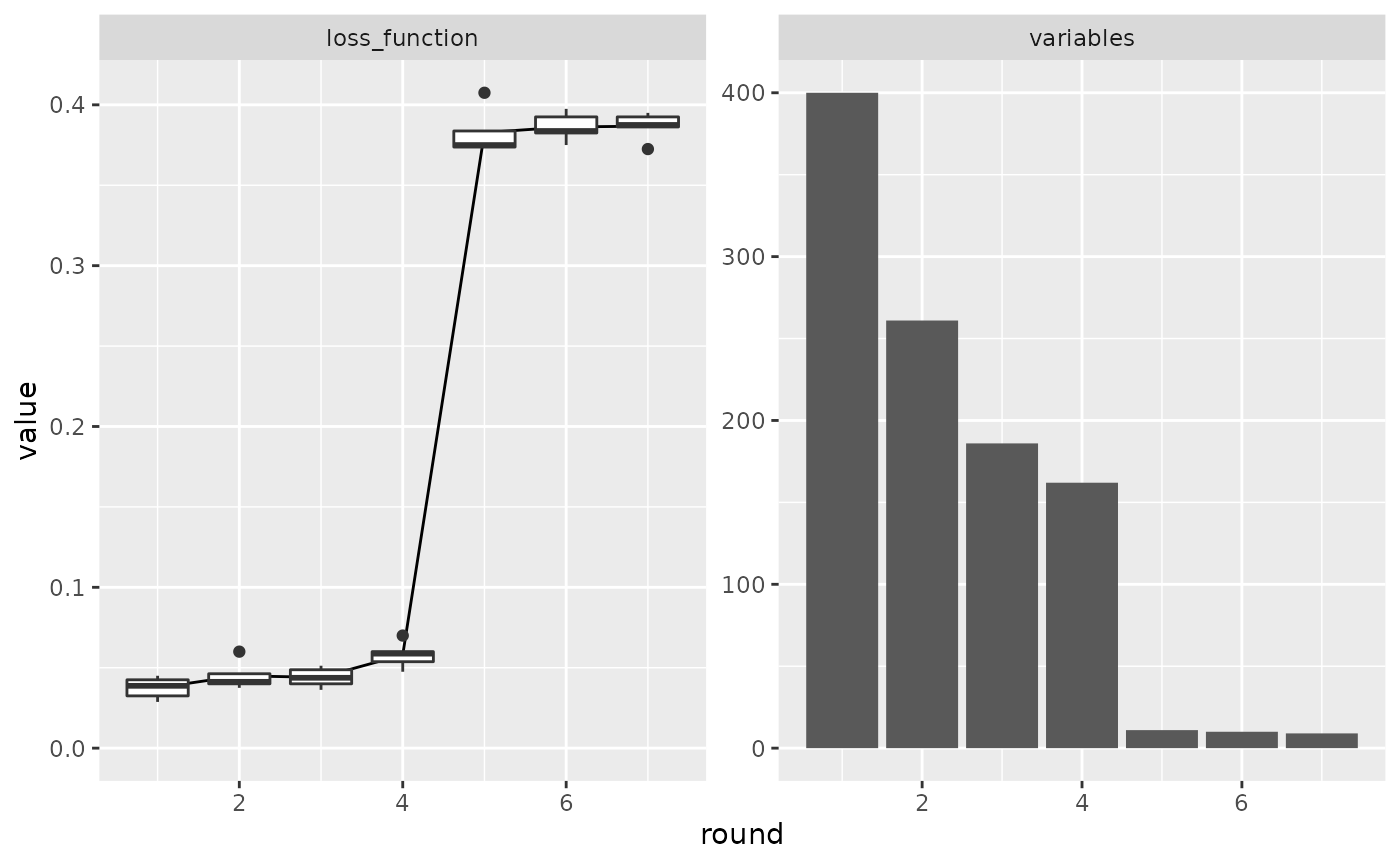
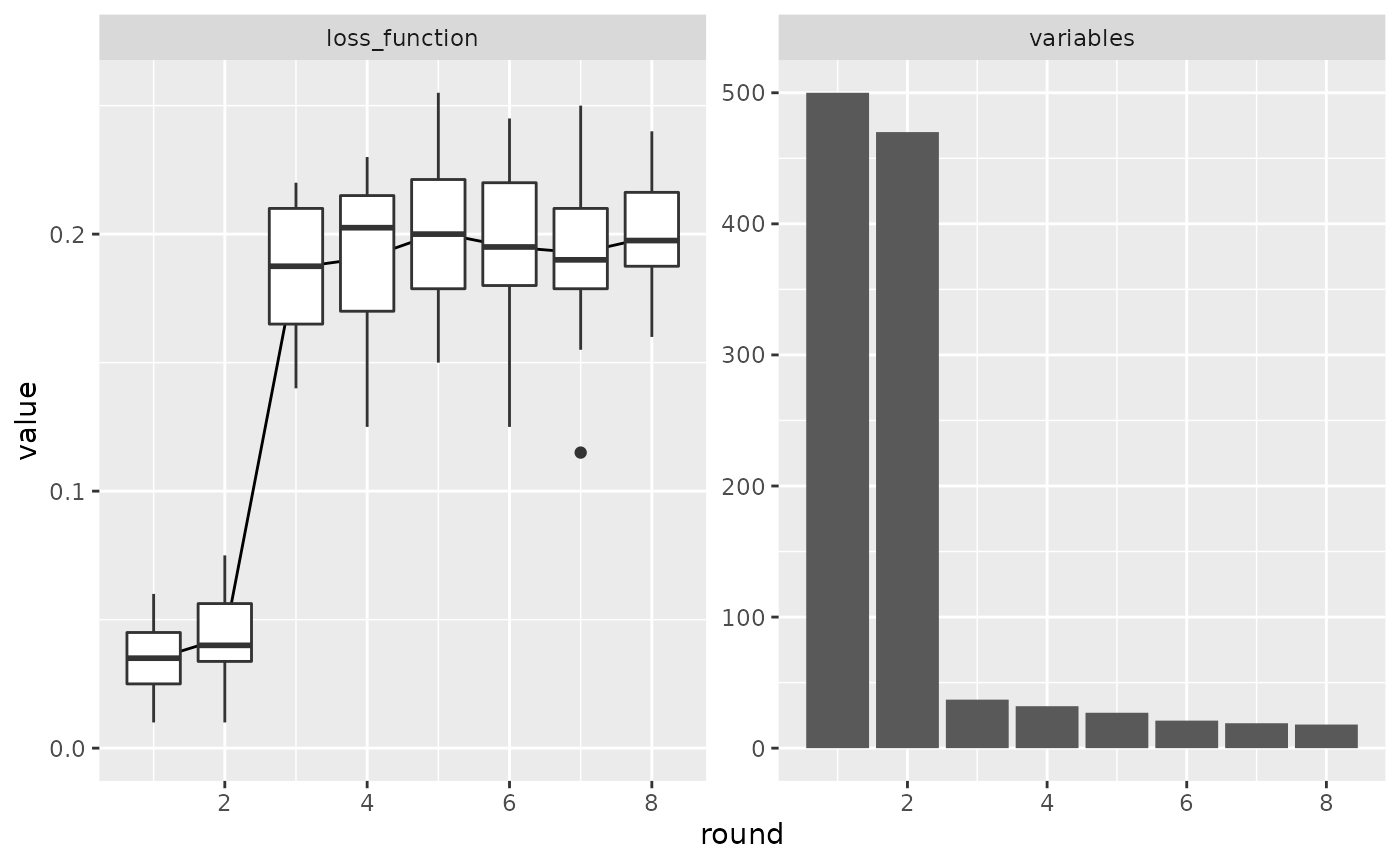
Built site for celavi: 0.0.0.9000@1dbce61

diff --git a/articles/Feature-selection-on-MNIST-data.html b/articles/Feature-selection-on-MNIST-data.html
@@ -99,12 +99,12 @@
 
 <span class="kw">if</span><span class="op">(</span><span class="va">use_small_data</span><span class="op">)</span><span class="op">{</span>
   
-  <span class="va">data</span> <span class="op">&lt;-</span> <span class="fu">dplyr</span><span class="fu">::</span><span class="fu"><a href="https://dplyr.tidyverse.org/reference/sample_n.html" class="external-link">sample_n</a></span><span class="op">(</span><span class="va">data</span>, <span class="fl">40000</span><span class="op">)</span>
-  <span class="va">data</span> <span class="op">&lt;-</span> <span class="fu">dplyr</span><span class="fu">::</span><span class="fu"><a href="https://dplyr.tidyverse.org/reference/select.html" class="external-link">select</a></span><span class="op">(</span><span class="va">data</span>, <span class="fu"><a href="https://rdrr.io/r/base/c.html" class="external-link">c</a></span><span class="op">(</span><span class="fl">1</span>, <span class="fu"><a href="https://rdrr.io/r/base/sample.html" class="external-link">sample</a></span><span class="op">(</span><span class="fl">2</span><span class="op">:</span><span class="fl">785</span>, <span class="fl">400</span><span class="op">)</span><span class="op">)</span><span class="op">)</span>  
+  <span class="va">data</span> <span class="op">&lt;-</span> <span class="fu">dplyr</span><span class="fu">::</span><span class="fu"><a href="https://dplyr.tidyverse.org/reference/sample_n.html" class="external-link">sample_n</a></span><span class="op">(</span><span class="va">data</span>, <span class="fl">50000</span><span class="op">)</span>
+  <span class="va">data</span> <span class="op">&lt;-</span> <span class="fu">dplyr</span><span class="fu">::</span><span class="fu"><a href="https://dplyr.tidyverse.org/reference/select.html" class="external-link">select</a></span><span class="op">(</span><span class="va">data</span>, <span class="fu"><a href="https://rdrr.io/r/base/c.html" class="external-link">c</a></span><span class="op">(</span><span class="fl">1</span>, <span class="fu"><a href="https://rdrr.io/r/base/sample.html" class="external-link">sample</a></span><span class="op">(</span><span class="fl">2</span><span class="op">:</span><span class="fl">785</span>, <span class="fl">500</span><span class="op">)</span><span class="op">)</span><span class="op">)</span>  
   <span class="va">test</span> <span class="op">&lt;-</span> <span class="fu">dplyr</span><span class="fu">::</span><span class="fu"><a href="https://dplyr.tidyverse.org/reference/sample_n.html" class="external-link">sample_n</a></span><span class="op">(</span><span class="va">test</span>, <span class="fl">4000</span><span class="op">)</span>
   
-  <span class="va">iter</span>  <span class="op">&lt;-</span> <span class="fl">5</span>
-  <span class="va">frac</span> <span class="op">&lt;-</span> <span class="fl">.20</span>
+  <span class="va">iter</span> <span class="op">&lt;-</span> <span class="fl">20</span>
+  <span class="va">frac</span> <span class="op">&lt;-</span> <span class="fl">1</span><span class="op">/</span><span class="fl">20</span>
   
 <span class="op">}</span> </code></pre></div>
 <div class="sourceCode" id="cb2"><pre class="downlit sourceCode r">
@@ -113,7 +113,8 @@
   data <span class="op">=</span> <span class="va">data</span>,
   test <span class="op">=</span> <span class="va">test</span>,
   response <span class="op">=</span> <span class="st">"label"</span>,
-  stat <span class="op">=</span> <span class="va">median</span>,
+  <span class="co"># stat = function(x) quantile(x, .25),</span>
+  <span class="co"># stat = function(x) quantile(x, .75),</span>
   iterations <span class="op">=</span> <span class="va">iter</span>,
   sample_frac <span class="op">=</span> <span class="va">frac</span>,
   predict_function <span class="op">=</span> <span class="kw">function</span><span class="op">(</span><span class="va">object</span>, <span class="va">newdata</span><span class="op">)</span><span class="op">{</span><span class="fu">ranger</span><span class="fu">:::</span><span class="fu"><a href="https://rdrr.io/pkg/ranger/man/predict.ranger.html" class="external-link">predict.ranger</a></span><span class="op">(</span><span class="va">object</span>, data <span class="op">=</span> <span class="va">newdata</span><span class="op">)</span><span class="op">$</span><span class="va">predictions</span><span class="op">}</span>,
@@ -121,59 +122,63 @@
   max.depth <span class="op">=</span> <span class="fl">15</span>
 <span class="op">)</span>
 <span class="co">#&gt; <span style="color: #00BBBB;">ℹ</span> Using 1 - accuracy as loss function.</span>
-<span class="co">#&gt; <span style="color: #00BBBB;">ℹ</span> Fitting 1st model using 400 predictor variables.</span>
-<span class="co">#&gt; Growing trees.. Progress: 38%. Estimated remaining time: 49 seconds.</span>
-<span class="co">#&gt; Growing trees.. Progress: 77%. Estimated remaining time: 18 seconds.</span>
+<span class="co">#&gt; <span style="color: #00BBBB;">ℹ</span> Fitting 1st model using 500 predictor variables.</span>
+<span class="co">#&gt; Growing trees.. Progress: 37%. Estimated remaining time: 51 seconds.</span>
+<span class="co">#&gt; Growing trees.. Progress: 75%. Estimated remaining time: 21 seconds.</span>
 <span class="co">#&gt; </span>
 <span class="co">#&gt; ── <span style="font-weight: bold;">Round #1</span> ──</span>
 <span class="co">#&gt; </span>
 <span class="co">#&gt; <span style="color: #00BBBB;">ℹ</span> Using `dplyr::sample_frac` as sampler.</span>
-<span class="co">#&gt; <span style="color: #00BBBB;">ℹ</span> Removing 139 variables. Fitting new model with 261 variables.</span>
-<span class="co">#&gt; Growing trees.. Progress: 47%. Estimated remaining time: 35 seconds.</span>
-<span class="co">#&gt; Growing trees.. Progress: 93%. Estimated remaining time: 4 seconds.</span>
+<span class="co">#&gt; <span style="color: #00BBBB;">ℹ</span> Removing 30 variables. Fitting new model with 470 variables.</span>
+<span class="co">#&gt; Growing trees.. Progress: 39%. Estimated remaining time: 47 seconds.</span>
+<span class="co">#&gt; Growing trees.. Progress: 79%. Estimated remaining time: 16 seconds.</span>
 <span class="co">#&gt; </span>
 <span class="co">#&gt; ── <span style="font-weight: bold;">Round #2</span> ──</span>
 <span class="co">#&gt; </span>
 <span class="co">#&gt; <span style="color: #00BBBB;">ℹ</span> Using `dplyr::sample_frac` as sampler.</span>
-<span class="co">#&gt; <span style="color: #00BBBB;">ℹ</span> Removing 75 variables. Fitting new model with 186 variables.</span>
-<span class="co">#&gt; Growing trees.. Progress: 54%. Estimated remaining time: 26 seconds.</span>
+<span class="co">#&gt; <span style="color: #00BBBB;">ℹ</span> Removing 433 variables. Fitting new model with 37 variables.</span>
 <span class="co">#&gt; </span>
 <span class="co">#&gt; ── <span style="font-weight: bold;">Round #3</span> ──</span>
 <span class="co">#&gt; </span>
 <span class="co">#&gt; <span style="color: #00BBBB;">ℹ</span> Using `dplyr::sample_frac` as sampler.</span>
-<span class="co">#&gt; <span style="color: #00BBBB;">ℹ</span> Removing 24 variables. Fitting new model with 162 variables.</span>
-<span class="co">#&gt; Growing trees.. Progress: 58%. Estimated remaining time: 22 seconds.</span>
+<span class="co">#&gt; <span style="color: #00BBBB;">ℹ</span> Removing 5 variables. Fitting new model with 32 variables.</span>
 <span class="co">#&gt; </span>
 <span class="co">#&gt; ── <span style="font-weight: bold;">Round #4</span> ──</span>
 <span class="co">#&gt; </span>
 <span class="co">#&gt; <span style="color: #00BBBB;">ℹ</span> Using `dplyr::sample_frac` as sampler.</span>
-<span class="co">#&gt; <span style="color: #00BBBB;">ℹ</span> Removing 151 variables. Fitting new model with 11 variables.</span>
+<span class="co">#&gt; <span style="color: #00BBBB;">ℹ</span> Removing 5 variables. Fitting new model with 27 variables.</span>
 <span class="co">#&gt; </span>
 <span class="co">#&gt; ── <span style="font-weight: bold;">Round #5</span> ──</span>
 <span class="co">#&gt; </span>
 <span class="co">#&gt; <span style="color: #00BBBB;">ℹ</span> Using `dplyr::sample_frac` as sampler.</span>
-<span class="co">#&gt; <span style="color: #00BBBB;">ℹ</span> Removing 1 variables. Fitting new model with 10 variables.</span>
+<span class="co">#&gt; <span style="color: #00BBBB;">ℹ</span> Removing 6 variables. Fitting new model with 21 variables.</span>
 <span class="co">#&gt; </span>
 <span class="co">#&gt; ── <span style="font-weight: bold;">Round #6</span> ──</span>
 <span class="co">#&gt; </span>
 <span class="co">#&gt; <span style="color: #00BBBB;">ℹ</span> Using `dplyr::sample_frac` as sampler.</span>
-<span class="co">#&gt; <span style="color: #00BBBB;">ℹ</span> Removing 1 variables. Fitting new model with 9 variables.</span>
+<span class="co">#&gt; <span style="color: #00BBBB;">ℹ</span> Removing 2 variables. Fitting new model with 19 variables.</span>
 <span class="co">#&gt; </span>
 <span class="co">#&gt; ── <span style="font-weight: bold;">Round #7</span> ──</span>
 <span class="co">#&gt; </span>
 <span class="co">#&gt; <span style="color: #00BBBB;">ℹ</span> Using `dplyr::sample_frac` as sampler.</span>
+<span class="co">#&gt; <span style="color: #00BBBB;">ℹ</span> Removing 1 variables. Fitting new model with 18 variables.</span>
+<span class="co">#&gt; </span>
+<span class="co">#&gt; ── <span style="font-weight: bold;">Round #8</span> ──</span>
+<span class="co">#&gt; </span>
+<span class="co">#&gt; <span style="color: #00BBBB;">ℹ</span> Using `dplyr::sample_frac` as sampler.</span>
 
 <span class="va">x</span>
-<span class="co">#&gt; <span style="color: #949494;"># A tibble: 7 × 5</span></span>
-<span class="co">#&gt;   round mean_value values    n_variables variables  </span>
-<span class="co">#&gt;   <span style="color: #949494; font-style: italic;">&lt;dbl&gt;</span>      <span style="color: #949494; font-style: italic;">&lt;dbl&gt;</span> <span style="color: #949494; font-style: italic;">&lt;list&gt;</span>          <span style="color: #949494; font-style: italic;">&lt;int&gt;</span> <span style="color: #949494; font-style: italic;">&lt;list&gt;</span>     </span>
-<span class="co">#&gt; <span style="color: #BCBCBC;">1</span>     1     0.037<span style="text-decoration: underline;">5</span> <span style="color: #949494;">&lt;dbl [5]&gt;</span>         400 <span style="color: #949494;">&lt;chr [400]&gt;</span></span>
-<span class="co">#&gt; <span style="color: #BCBCBC;">2</span>     2     0.045<span style="text-decoration: underline;">0</span> <span style="color: #949494;">&lt;dbl [5]&gt;</span>         261 <span style="color: #949494;">&lt;chr [261]&gt;</span></span>
-<span class="co">#&gt; <span style="color: #BCBCBC;">3</span>     3     0.044  <span style="color: #949494;">&lt;dbl [5]&gt;</span>         186 <span style="color: #949494;">&lt;chr [186]&gt;</span></span>
-<span class="co">#&gt; <span style="color: #BCBCBC;">4</span>     4     0.058  <span style="color: #949494;">&lt;dbl [5]&gt;</span>         162 <span style="color: #949494;">&lt;chr [162]&gt;</span></span>
-<span class="co">#&gt; <span style="color: #BCBCBC;">5</span>     5     0.383  <span style="color: #949494;">&lt;dbl [5]&gt;</span>          11 <span style="color: #949494;">&lt;chr [11]&gt;</span> </span>
-<span class="co">#&gt; <span style="color: #BCBCBC;">6</span>     6     0.386  <span style="color: #949494;">&lt;dbl [5]&gt;</span>          10 <span style="color: #949494;">&lt;chr [10]&gt;</span> </span>
-<span class="co">#&gt; <span style="color: #BCBCBC;">7</span>     7     0.387  <span style="color: #949494;">&lt;dbl [5]&gt;</span>           9 <span style="color: #949494;">&lt;chr [9]&gt;</span></span>
+<span class="co">#&gt; <span style="color: #949494;"># A tibble: 8 × 5</span></span>
+<span class="co">#&gt;   round mean_value values     n_variables variables  </span>
+<span class="co">#&gt;   <span style="color: #949494; font-style: italic;">&lt;dbl&gt;</span>      <span style="color: #949494; font-style: italic;">&lt;dbl&gt;</span> <span style="color: #949494; font-style: italic;">&lt;list&gt;</span>           <span style="color: #949494; font-style: italic;">&lt;int&gt;</span> <span style="color: #949494; font-style: italic;">&lt;list&gt;</span>     </span>
+<span class="co">#&gt; <span style="color: #BCBCBC;">1</span>     1     0.034<span style="text-decoration: underline;">5</span> <span style="color: #949494;">&lt;dbl [20]&gt;</span>         500 <span style="color: #949494;">&lt;chr [500]&gt;</span></span>
+<span class="co">#&gt; <span style="color: #BCBCBC;">2</span>     2     0.043  <span style="color: #949494;">&lt;dbl [20]&gt;</span>         470 <span style="color: #949494;">&lt;chr [470]&gt;</span></span>
+<span class="co">#&gt; <span style="color: #BCBCBC;">3</span>     3     0.187  <span style="color: #949494;">&lt;dbl [20]&gt;</span>          37 <span style="color: #949494;">&lt;chr [37]&gt;</span> </span>
+<span class="co">#&gt; <span style="color: #BCBCBC;">4</span>     4     0.191  <span style="color: #949494;">&lt;dbl [20]&gt;</span>          32 <span style="color: #949494;">&lt;chr [32]&gt;</span> </span>
+<span class="co">#&gt; <span style="color: #BCBCBC;">5</span>     5     0.200  <span style="color: #949494;">&lt;dbl [20]&gt;</span>          27 <span style="color: #949494;">&lt;chr [27]&gt;</span> </span>
+<span class="co">#&gt; <span style="color: #BCBCBC;">6</span>     6     0.195  <span style="color: #949494;">&lt;dbl [20]&gt;</span>          21 <span style="color: #949494;">&lt;chr [21]&gt;</span> </span>
+<span class="co">#&gt; <span style="color: #BCBCBC;">7</span>     7     0.193  <span style="color: #949494;">&lt;dbl [20]&gt;</span>          19 <span style="color: #949494;">&lt;chr [19]&gt;</span> </span>
+<span class="co">#&gt; <span style="color: #BCBCBC;">8</span>     8     0.199  <span style="color: #949494;">&lt;dbl [20]&gt;</span>          18 <span style="color: #949494;">&lt;chr [18]&gt;</span></span>
 
 <span class="fu"><a href="https://rdrr.io/r/graphics/plot.default.html" class="external-link">plot</a></span><span class="op">(</span><span class="va">x</span><span class="op">)</span></code></pre></div>
 <p><img src="Feature-selection-on-MNIST-data_files/figure-html/procedure-1.png" width="700"></p>
